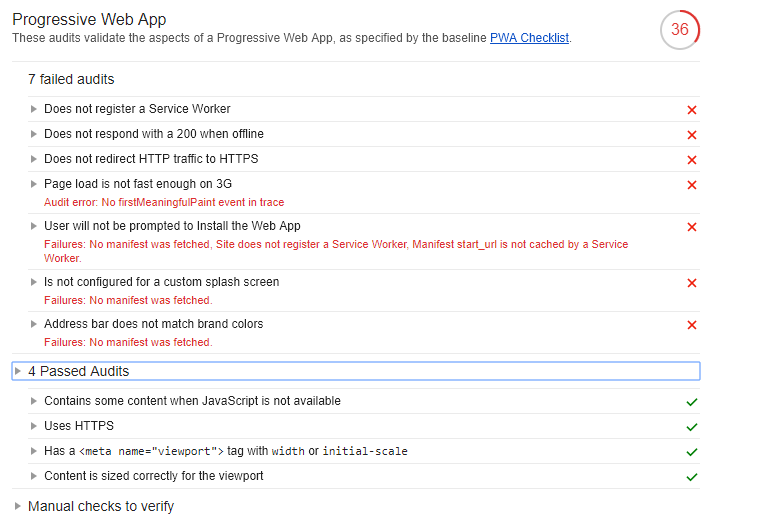
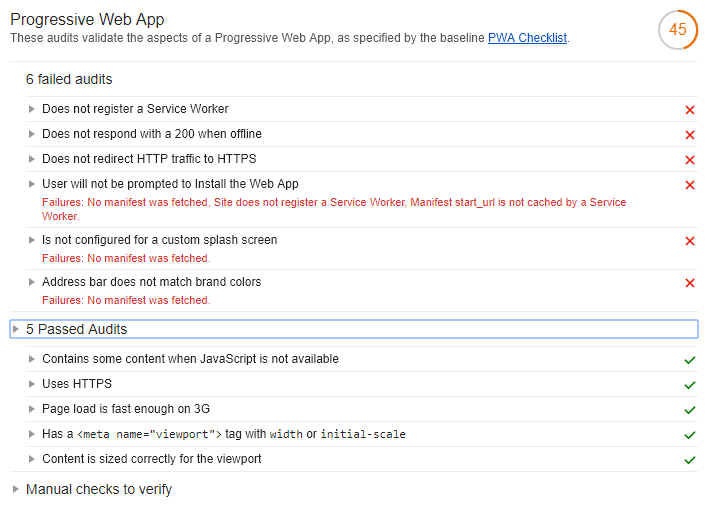
Fix pre-step-1 audit screenshot

diff --git a/steps/01-web-app-manifest.md b/steps/01-web-app-manifest.md
@@ -82,7 +82,7 @@ Open your application at [localhost:3000](localhost:3000) using Google Chrome, t
 
 Try running the Lighthouse Progressive Web App audits again. You can run Lighthouse in Chrome DevTools under the Audits tab.
 
-Your application should now pass seven of the thirteen PWA audits, up from four at the start of this step. In particular, since you've added a web app manifest to your application, it should pass the "Configured for a custom splash screen" check:
+Your application should now pass seven of the thirteen PWA audits, up from five at the start of this step. In particular, since you've added a web app manifest to your application, it should pass the "Configured for a custom splash screen" check:
 
 ![](screenshots/01-web-app-manifest/02-lighthouse-results.png)
 
